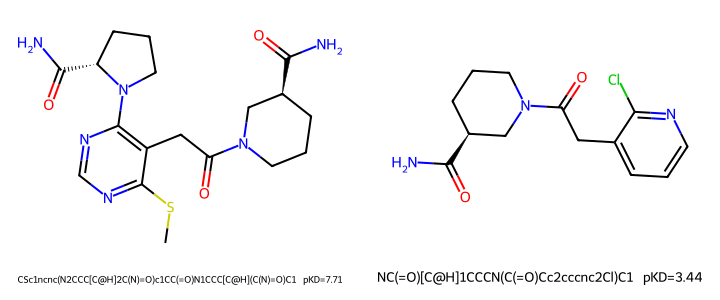
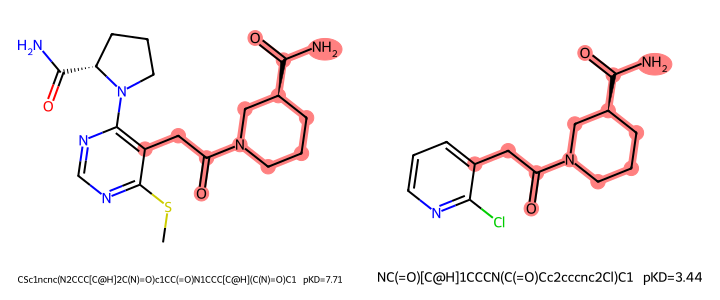
Conformer-geometry follow-up + MCS-aligned pair figures (#4)
Follow-up to the ablation's top recommendation: re-run only the POTS
representations with a single-ETKDG-conformer ground metric across the ASAP
endpoints. Confirms real 3D helps the augmented/hybrid variants -- mean Spearman
+0.10 (pots+glob) and +0.07 (ecfp_pots), biggest single gain LogD ecfp_pots
0.31 -> 0.70 -- while pure landmark-pots is unmoved. So the conformer-free bounds
matrix was the wrong economy; a single cheap conformer is the better default.
Adds the results table, updates Next Steps to "confirmed", and includes
conformer_ablation.py + results.

Also: paired molecule figures are now aligned on and highlight their maximum
common substructure (interpret.py, rdFMCS + GenerateDepictionMatching2DStructure),
making the activity-cliff pair's single-substituent difference and the scaffold-
hop pair's tiny shared MCS visually obvious.

diff --git a/entries/2026-07-11-implicit-geometry-similarity/assets/interpret.py b/entries/2026-07-11-implicit-geometry-similarity/assets/interpret.py
@@ -20,7 +20,7 @@ import os
 import numpy as np
 import pandas as pd
 from rdkit import Chem, DataStructs
-from rdkit.Chem import AllChem, Draw
+from rdkit.Chem import AllChem, Draw, rdFMCS, rdDepictor
 from scipy.stats import spearmanr
 
 from pots import PharmacophoreCloud, fgw_distance
@@ -74,14 +74,28 @@ def sar_continuity(csv, target_col, n=150, seed=0):
 
 
 def _draw_pair(smi_a, smi_b, legend_a, legend_b, title, path):
+    """Render a molecule pair aligned on (and highlighting) their MCS."""
     ma, mb = Chem.MolFromSmiles(smi_a), Chem.MolFromSmiles(smi_b)
-    for m in (ma, mb):
-        AllChem.Compute2DCoords(m)
+    AllChem.Compute2DCoords(ma)
+    AllChem.Compute2DCoords(mb)
+    hi_a, hi_b = [], []
+    mcs = rdFMCS.FindMCS([ma, mb], completeRingsOnly=True, timeout=10,
+                         bondCompare=rdFMCS.BondCompare.CompareOrderExact)
+    if mcs.numAtoms >= 4:
+        patt = Chem.MolFromSmarts(mcs.smartsString)
+        try:
+            # Use the first molecule as the template and rotate/flip the second
+            # onto it so the shared MCS is drawn in the same orientation.
+            rdDepictor.GenerateDepictionMatching2DStructure(mb, ma, refPatt=patt)
+        except Exception:
+            pass
+        hi_a = list(ma.GetSubstructMatch(patt))
+        hi_b = list(mb.GetSubstructMatch(patt))
     img = Draw.MolsToGridImage(
         [ma, mb], legends=[legend_a, legend_b], molsPerRow=2,
-        subImgSize=(360, 300))
+        subImgSize=(360, 300), highlightAtomLists=[hi_a, hi_b])
     img.save(path)
-    print(f"  wrote {os.path.relpath(path, HERE)}  ({title})")
+    print(f"  wrote {os.path.relpath(path, HERE)}  (MCS {mcs.numAtoms} atoms; {title})")
 
 
 def find_and_draw(csv, target_col, tag, n=250, seed=0):

diff --git a/entries/2026-07-11-implicit-geometry-similarity/README.md b/entries/2026-07-11-implicit-geometry-similarity/README.md
@@ -299,9 +299,12 @@ Tanimoto (distance 0.87, i.e. Tanimoto similarity ≈ 0.13) yet POTS ranks it am
 the *most similar* pairs in the set (distance rank 0.02) — and the two compounds
 have similar potency (ΔpIC50 = 0.8). POTS sees the shared pharmacophore (an
 aromatic, a hydrophobic aryl, and a flanking di-carbonyl H-bond-acceptor motif —
-thiazolidinedione vs hydantoin) that the graph fingerprint misses.
+thiazolidinedione vs hydantoin) that the graph fingerprint misses. In the figure
+both molecules are aligned on their maximum common substructure, which is
+highlighted; note how *little* 2D structure the MCS actually covers — the
+similarity POTS detects is pharmacophoric, not substructural.
 
-![Scaffold-hop pair POTS calls similar but Tanimoto calls distant](assets/pair_scaffold_hop_sars.png)
+![Scaffold-hop pair POTS calls similar but Tanimoto calls distant, aligned and highlighted on their small shared MCS](assets/pair_scaffold_hop_sars.png)
 
 For contrast, a textbook **activity cliff**: two near-identical spiro-
 isoquinolinones (Tanimoto-similar) whose potency differs by >4 log units
@@ -352,10 +355,27 @@ ground metric (α=0.5):
 The distance-geometry **bounds** matrix — the intended clever part — does *not*
 reliably beat plain bond-count **topology** (it is worse on HLM), while a single
 real **ETKDG conformer** is best on 2/3. So the cheap implicit geometry buys
-little over topology, and real (if still cheap) 3D helps more. This is the most
-actionable negative result: the "implicit 3D via bounds" thesis is not borne out,
-and switching the default ground metric to a single ETKDG conformer (~9 ms/mol)
-is a straightforward improvement.
+little over topology, and real (if still cheap) 3D helps more.
+
+**Following this up (the promised next step): swapping the POTS ground metric to
+a single ETKDG conformer helps the augmented/hybrid variants.** Re-running only
+the POTS representations with `geometry="conformer"` across the 6 ASAP endpoints
+where it was affordable ([`conformer_ablation.py`](assets/conformer_ablation.py),
+mean ΔSpearman vs the bounds default):
+
+| variant | mean Δ (conformer − bounds) | notable |
+|---|---|---|
+| `pots` (landmark only) | −0.04 | wash |
+| `pots+glob` | **+0.10** | LogD −0.01→0.53 |
+| `ecfp_pots` | **+0.07** | LogD 0.31→0.70 |
+| `pots+gp` | +0.02 | HLM 0.47→0.66 |
+
+So real 3D geometry clearly helps the variants that also carry global/ECFP
+context (biggest single gain: LogD `ecfp_pots` 0.31→0.70), while pure
+landmark-`pots` is unmoved. The conformer-free bounds matrix was the wrong
+economy; a single cheap conformer is the better default. (The full-benchmark
+conformer rerun was truncated to the ASAP subset because ETKDG embedding is ~6×
+slower than the bounds matrix and uncached.)
 
 ## Foundation-model notes
 
@@ -448,9 +468,12 @@ topology.
 
 ## Next steps
 
-- **Swap the ground metric to a single ETKDG conformer** (~9 ms/mol): the
-  ablation shows real 3D beats the bounds matrix on 2/3 endpoints, and the
-  bounds geometry does not beat topology. This is the most promising fix.
+- **Swap the ground metric to a single ETKDG conformer** (~9 ms/mol) —
+  *confirmed to help*: the follow-up conformer ablation improves `pots+glob` by
+  +0.10 and `ecfp_pots` by +0.07 mean Spearman across the ASAP endpoints (LogD
+  `ecfp_pots` 0.31→0.70). Make it the default and re-run the full benchmark +
+  leaderboard placement on conformer geometry (cache conformers to amortize the
+  ~6× embedding cost).
 - **Stop abstracting away detail for the feature path.** Use POTS purely as an
   interpretable similarity / scaffold-hopping tool and keep ECFP for regression,
   rather than expecting the pharmacophore embedding to win on accuracy.
